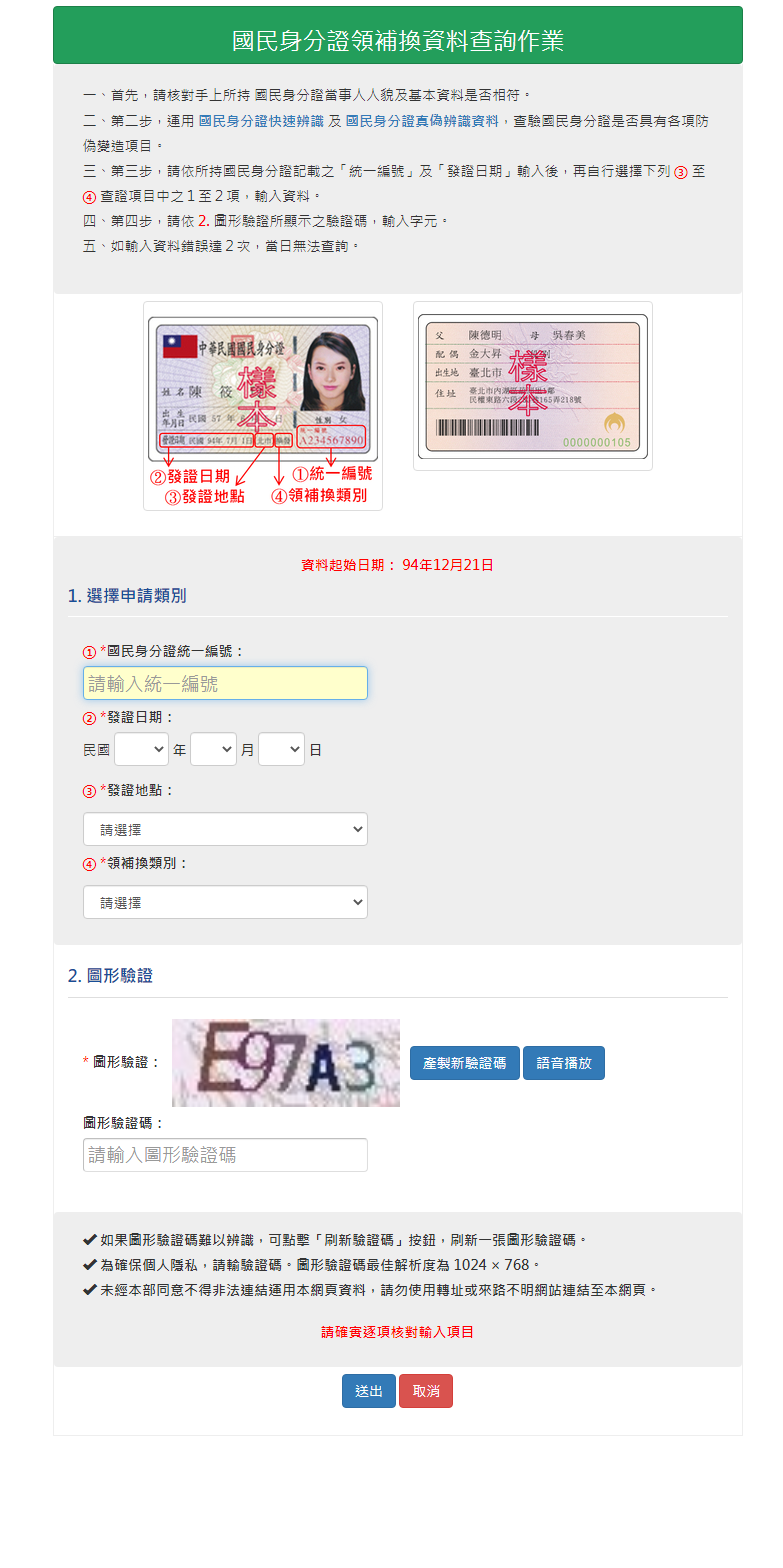
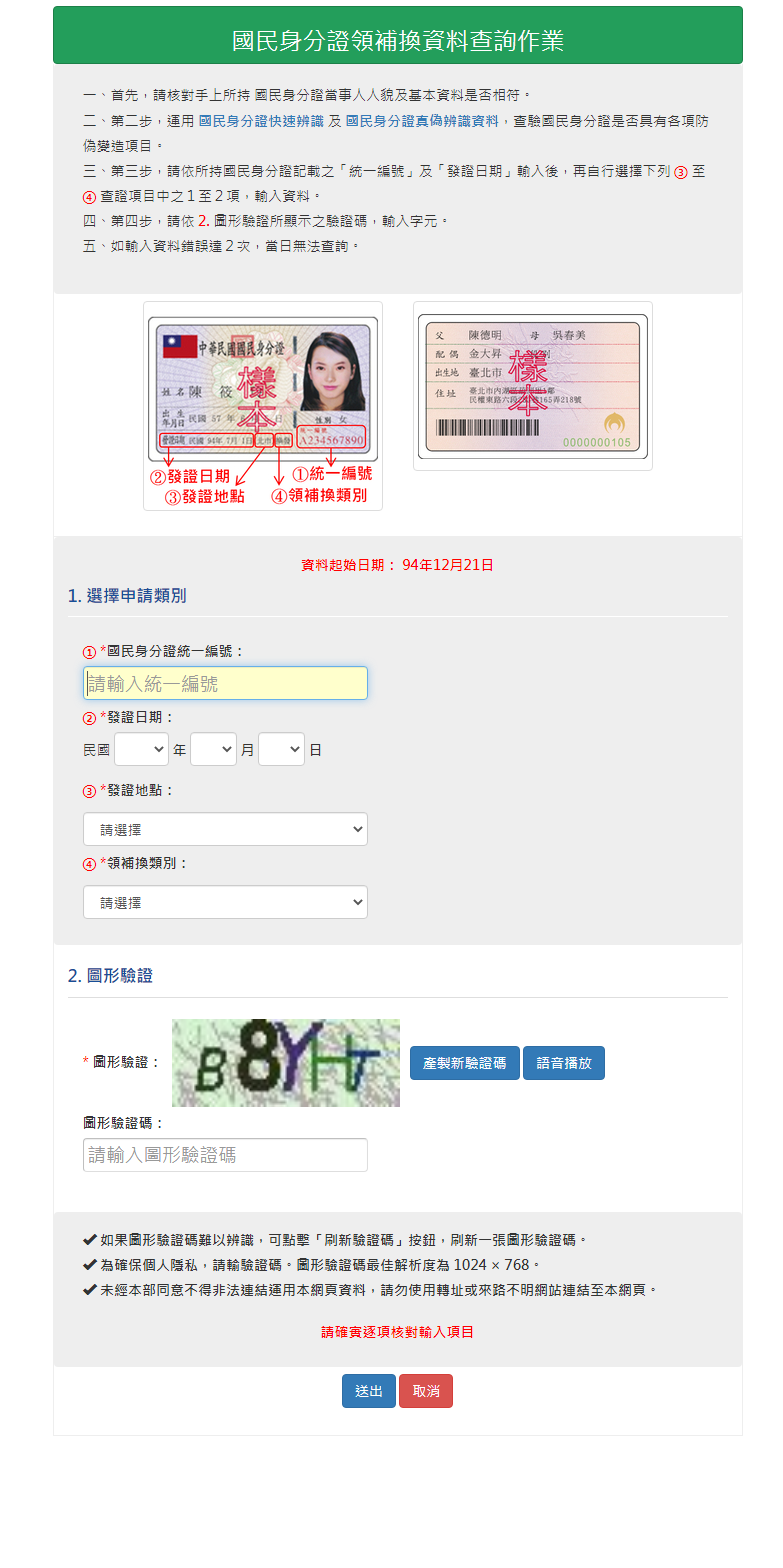
12/28

Changed region(s): [[0.2146, 0.625, 0.5211, 0.7188]]

diff --git a/pic_scrapy.py b/pic_scrapy.py
@@ -3,25 +3,30 @@ from selenium import webdriver
 from selenium.webdriver.chrome.options import Options 
 from selenium.webdriver.common.by import By
 
-def pic():
-    for i in range(0,1):
-        chrome_options = Options()
-        chrome_options.add_argument("--headless") #不開視窗，在背景下處理
-        driver = webdriver.Chrome(options=chrome_options) 
-        driver.get("https://www.ris.gov.tw/apply-idCard/app/idcard/IDCardReissue/main") #爬網址
-        ######
-        scroll_width = driver.execute_script('return document.body.parentNode.scrollWidth')
-        scroll_height = driver.execute_script('return document.body.parentNode.scrollHeight')
-        driver.set_window_size(scroll_width, scroll_height)
-        driver.save_screenshot('./cap_pic/fullpage.jpg')
-        # 網頁中圖片驗證碼的位置
-        element = driver.find_element(by=By.XPATH, value='//*[@id="captchaImage_captcha-refresh"]')  # 抓取html裡圖的位置
-        left = element.location['x']
-        right = element.location['x'] + element.size['width']
-        top = element.location['y']
-        bottom = element.location['y'] + element.size['height']
-        img = Image.open('./cap_pic/fullpage.jpg')
-        img = img.crop((left, top, right, bottom))
-        img = img.convert("RGB")
-        img.save(f'./pic/{i}.jpg')
-        print(f"已儲存:{i}.jpg")
+class pic:
+    def __init__ (self, start_num, num_sample):
+        self.start_num = start_num
+        self.num_sample = num_sample
+
+    def scrapy(self):
+        for i in range(self.start_num, self.start_num+self.num_sample):
+            chrome_options = Options()
+            chrome_options.add_argument("--headless") #不開視窗，在背景下處理
+            driver = webdriver.Chrome(options=chrome_options) 
+            driver.get("https://www.ris.gov.tw/apply-idCard/app/idcard/IDCardReissue/main") #爬網址
+            ######
+            scroll_width = driver.execute_script('return document.body.parentNode.scrollWidth')
+            scroll_height = driver.execute_script('return document.body.parentNode.scrollHeight')
+            driver.set_window_size(scroll_width, scroll_height)
+            driver.save_screenshot('./cap_pic/fullpage.jpg')
+            # 網頁中圖片驗證碼的位置
+            element = driver.find_element(by=By.XPATH, value='//*[@id="captchaImage_captcha-refresh"]')  # 抓取html裡圖的位置
+            left = element.location['x']
+            right = element.location['x'] + element.size['width']
+            top = element.location['y']
+            bottom = element.location['y'] + element.size['height']
+            img = Image.open('./cap_pic/fullpage.jpg')
+            img = img.crop((left, top, right, bottom))
+            img = img.convert("RGB")
+            img.save(f'./pic/{i}.jpg')
+            print(f"已儲存:{i}.jpg")

diff --git a/model.py b/model.py
@@ -3,3 +3,76 @@ from PIL import Image
 import torch
 from torch.utils.data import Dataset
 import pandas as pd
+
+
+    
+def img_loader(self):
+    img = Image.open(self.img_path)
+    return img.convert("RGB")
+
+def make_dataset(data_path,ans_path,alphabet):
+    img_names = os.listdir(data_path)# 取出圖片名稱
+    img_names.sort(key=lambda x: int(x.split(".")[0]))# 讓圖片從小到大排序
+    df_ans = pd.read_csv(ans_path)# 讀取label的CSV檔
+    ans_list = list(df_ans["code"].values)# 取得label
+    samples = []
+
+    # 用zip將圖片跟對應的答案湊一對
+    for ans, img_name in zip(ans_list, img_names):
+        if len(str(ans)) == 5  :#num_char:
+            
+            # 將圖片名稱及路徑合併
+            # 以便上述程式img_loader的執行
+            img_path = os.path.join(data_path, img_name)
+            target = []
+            # 這邊做5個字的辨識，例如：A5GG2
+            # 會轉換成target = [0,31,6,6,28]
+            for char in str(ans):
+                pos = alphabet.find(char) 
+                target.append(pos)
+                
+            # 用samples把他們全部包起來    
+            samples.append((img_path, target))
+        else:
+            print(img_name)
+        return samples  
+
+class CaptchaData(Dataset):
+    
+    def __init__(self, data_path, ans_path, transform=None, target_transform=None):
+        super(Dataset, self).__init__()
+        self.data_path = data_path
+        self.ans_path = ans_path
+        # self.num_class = num_class
+        # self.num_char = num_char
+        self.transform = transform
+        self.target_transform = target_transform
+        self.alphabet = 'ABCDEFGHIJKLMNOPQRSTUVWXYZ012345678'
+        self.samples = make_dataset(self.data_path, self.ans_path, self.alphabet)
+
+    def __len__(self):
+        return len(self.samples)
+
+    def __getitem__(self, index):
+        img_path, target = self.samples[index]
+        img = img_loader(img_path)
+        if self.transform is not None:
+            img = self.transform(img)
+        if self.target_transform is not None:
+            target = self.target_transform(target)
+        return img, torch.Tensor(target)
+
+def calculat_acc(output, target):
+    output, target = output.view(-1, 36), target.view(-1, 36)
+    output = nn.functional.softmax(output, dim=1)
+    output = torch.argmax(output, dim=1)
+    target = torch.argmax(target, dim=1)
+    output, target = output.view(-1, 5), target.view(-1, 5)
+    correct_list = []
+    for i, j in zip(target, output):
+        if torch.equal(i, j):
+            correct_list.append(1)
+        else:
+            correct_list.append(0)
+    acc = sum(correct_list) / len(correct_list)
+    return acc

diff --git a/main.py b/main.py
@@ -1,4 +1,13 @@
-import pic_scrapy 
+from pic_scrapy import pic
+
+start_num = 100
+num_sample = 100
 
 if __name__ == "__main__":
-    pic_scrapy.pic()
+
+    """
+    爬照片訓練
+    pic = pic(start_num,num_sample)
+    pic.scrapy()
+    """
+    
